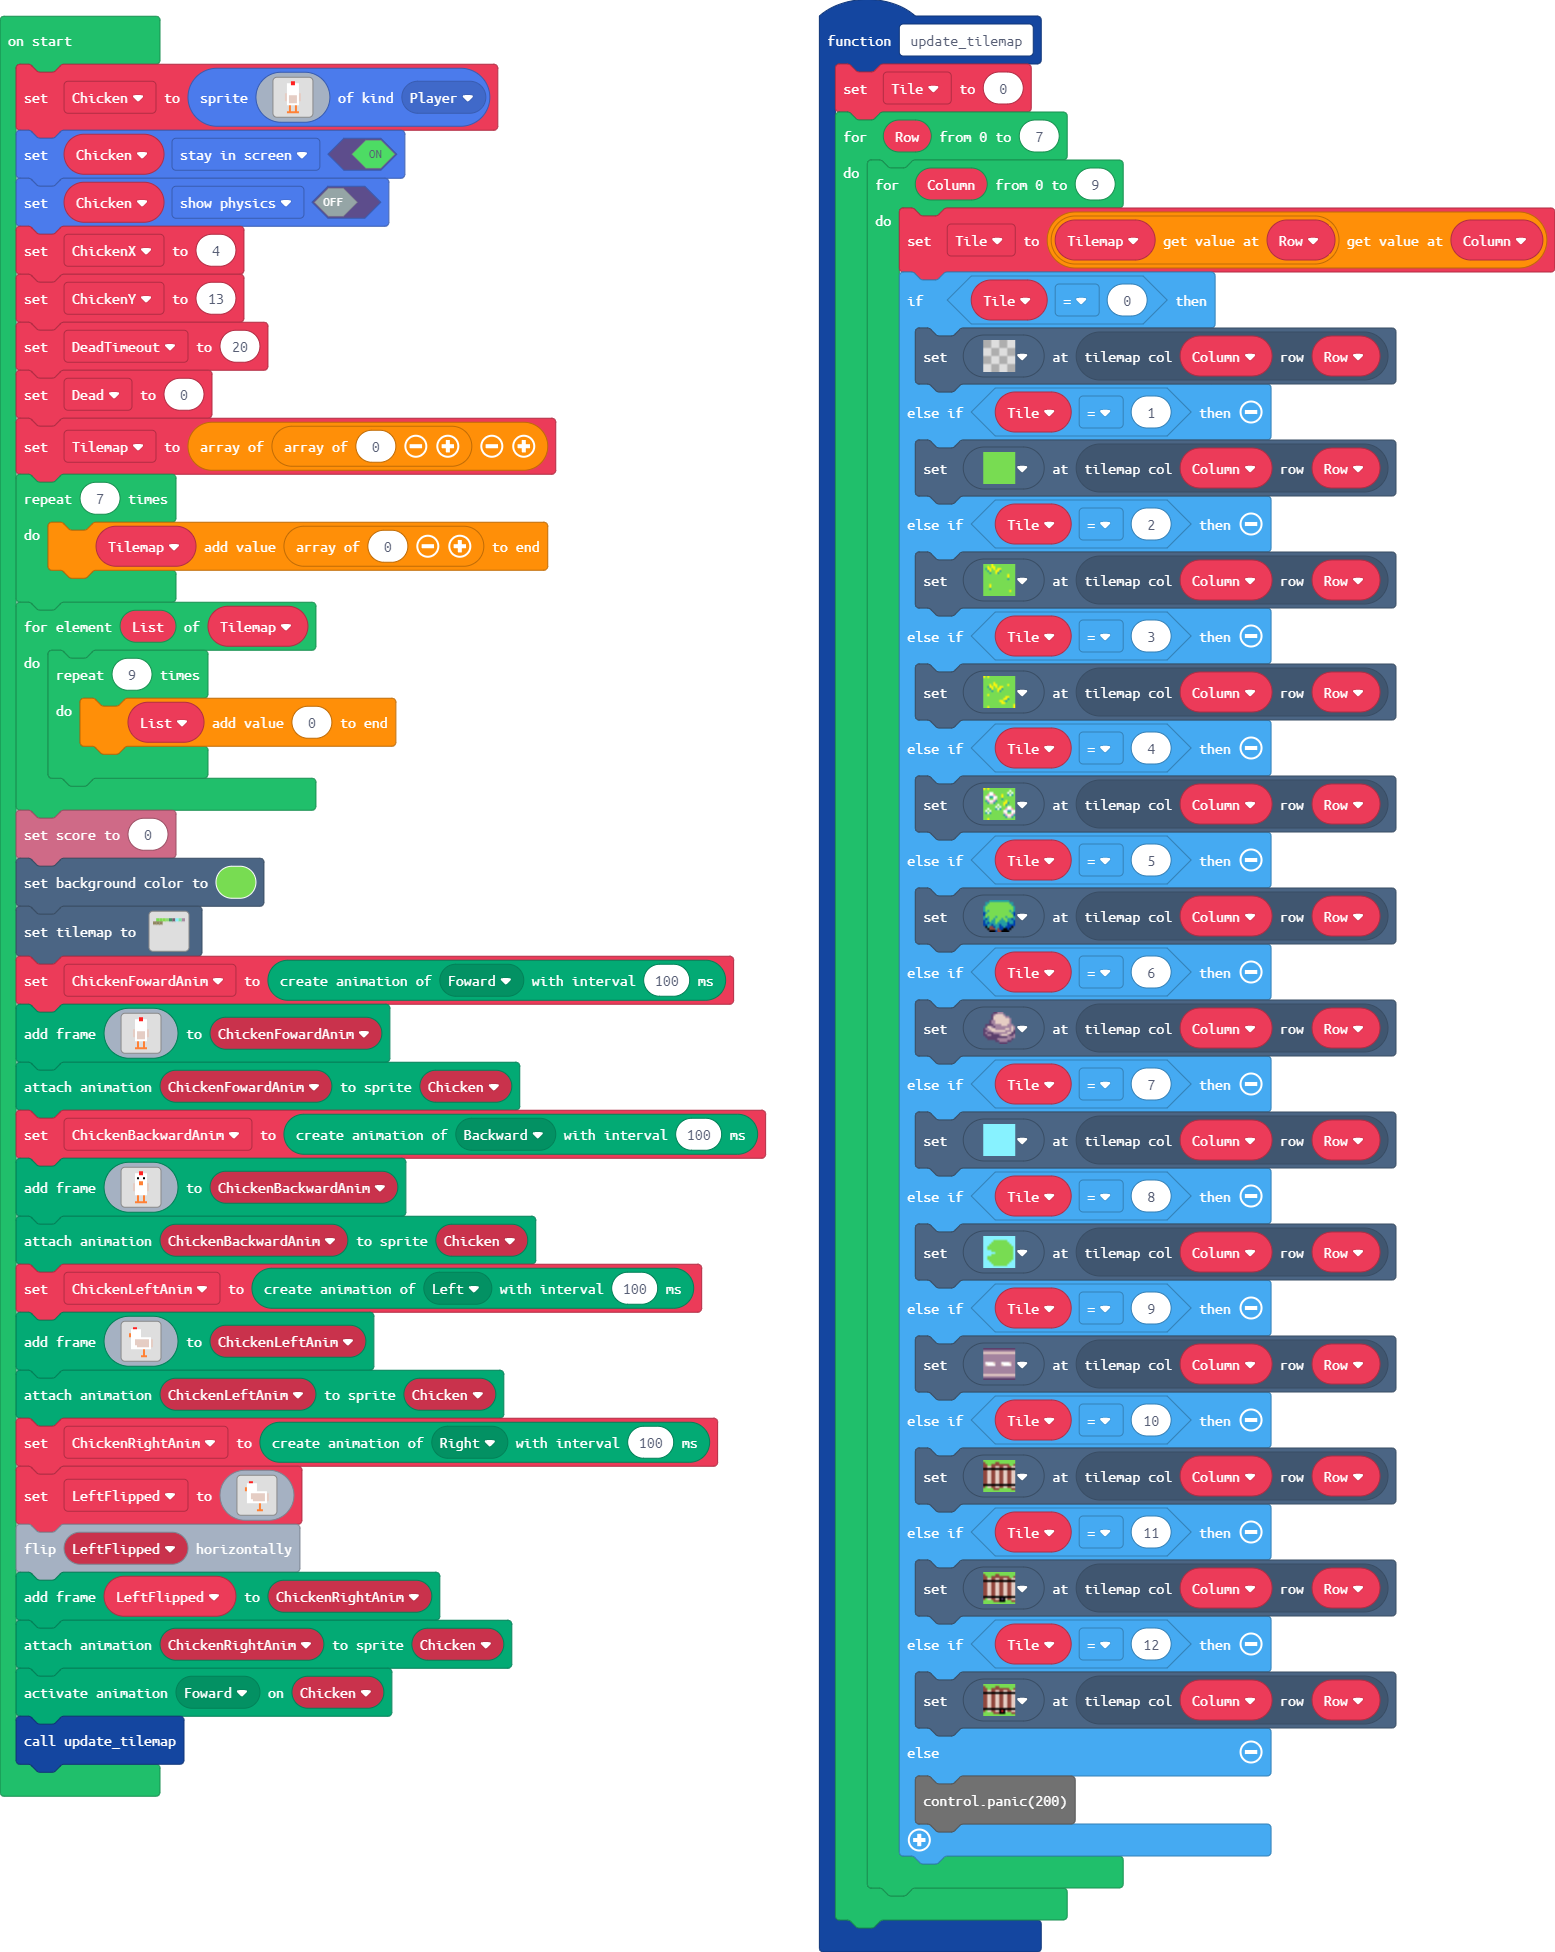
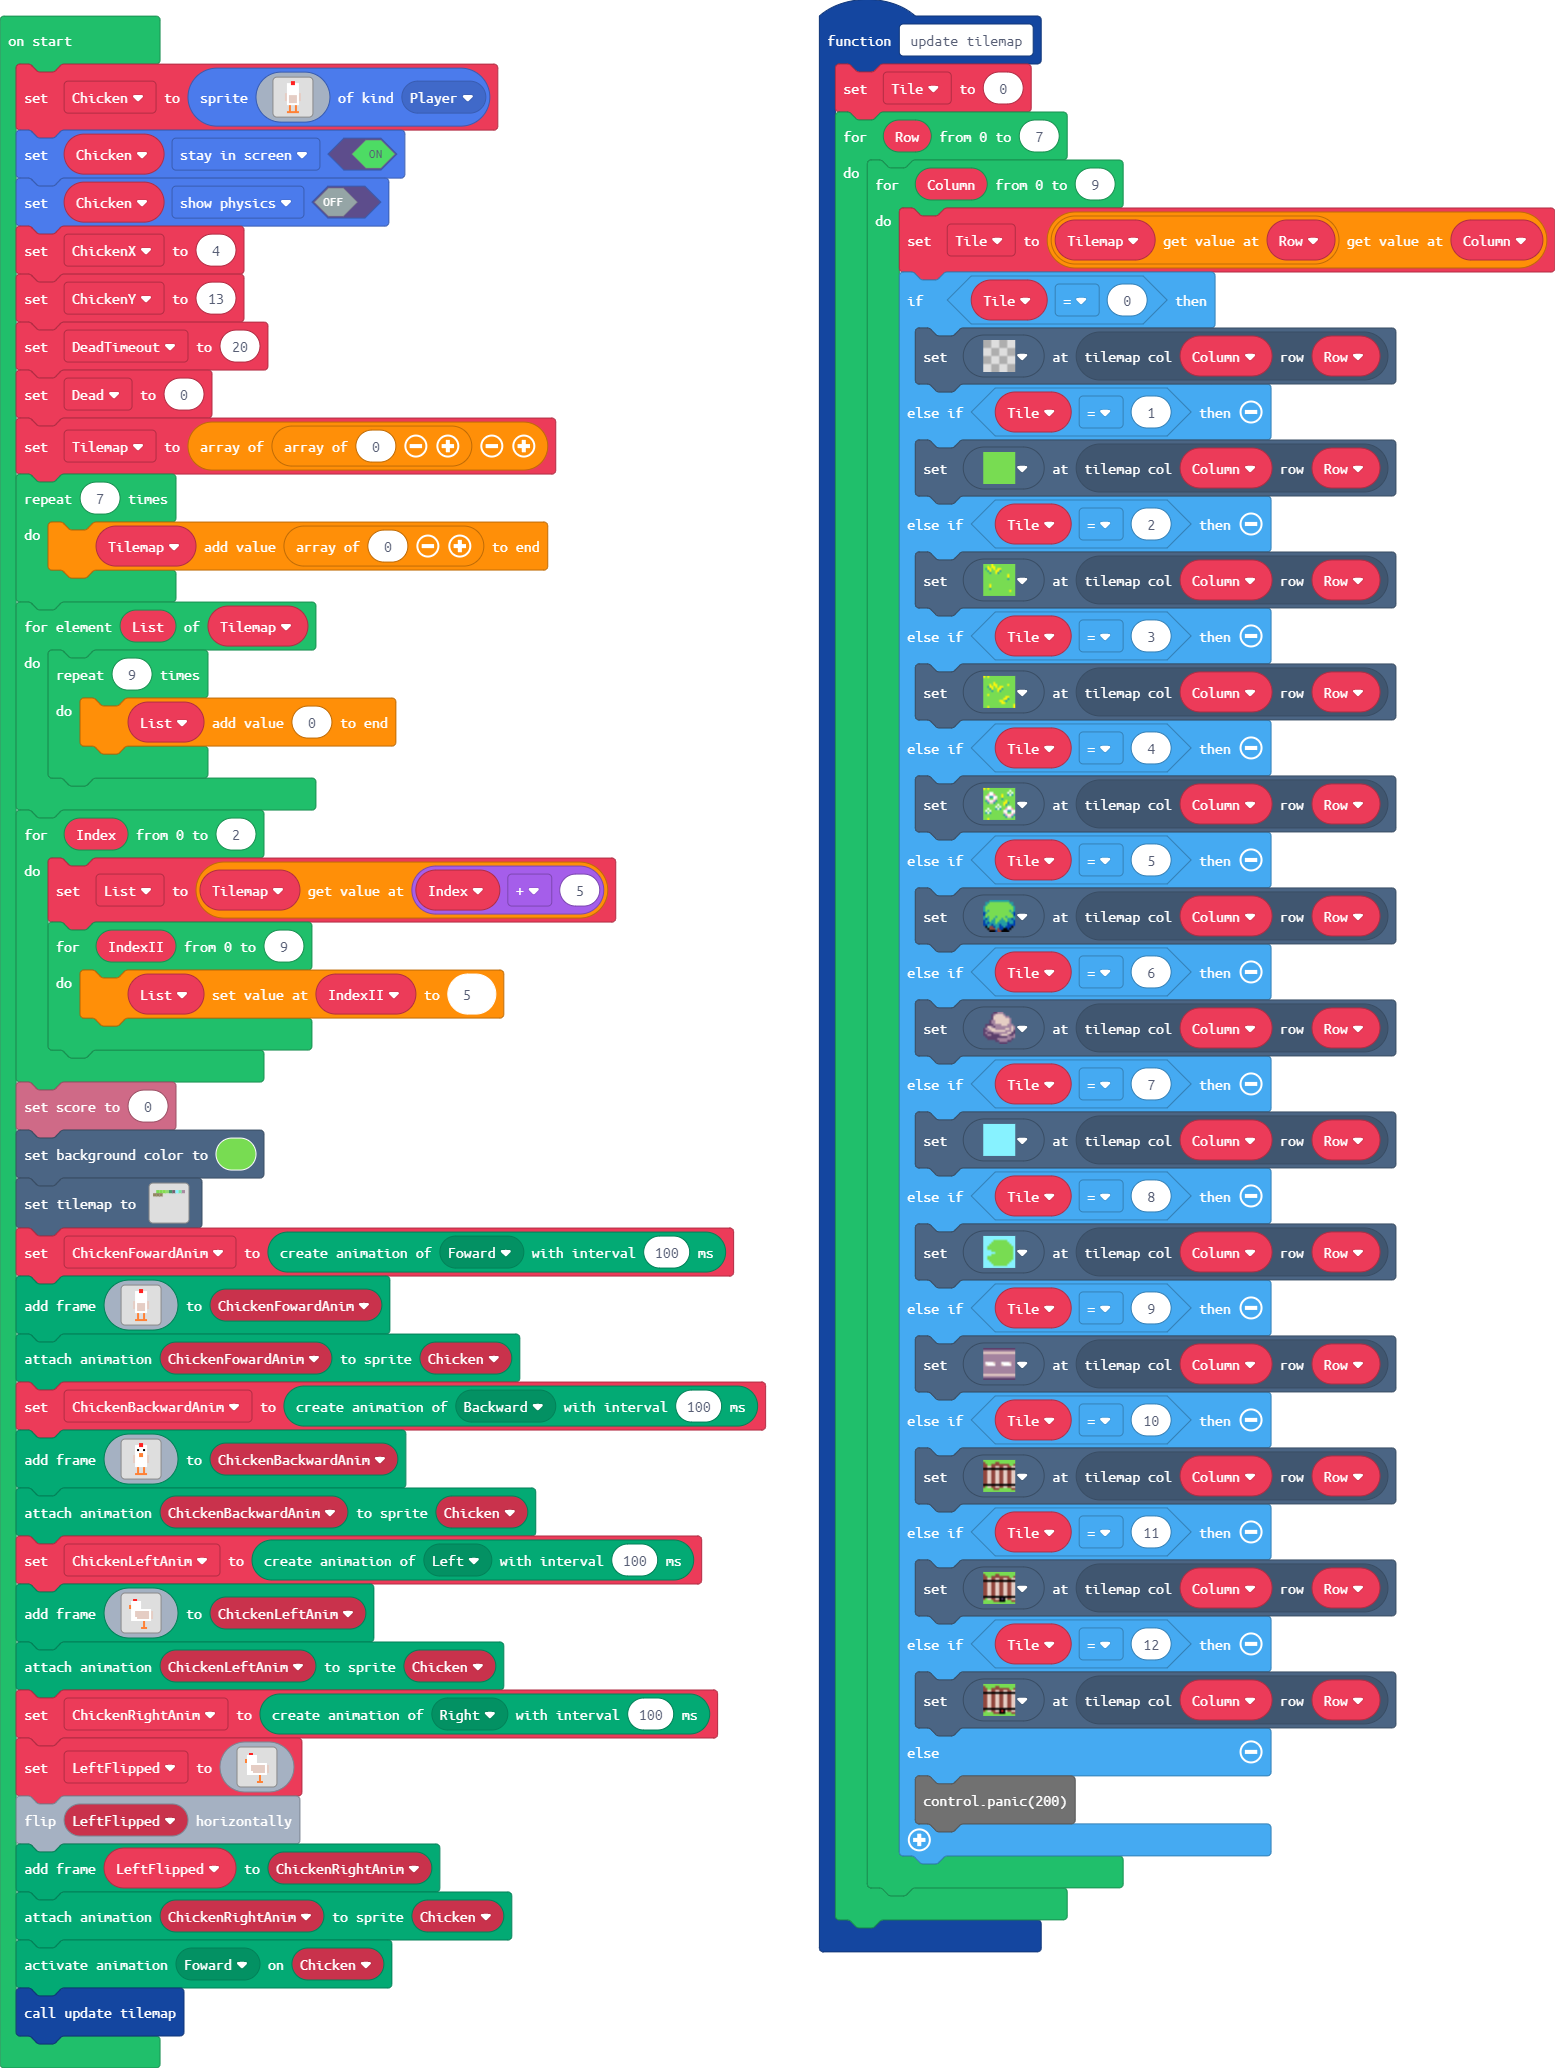
Made trees behind player when starting

diff --git a/main.ts b/main.ts
@@ -180,6 +180,7 @@ function update_tilemap () {
     }
 }
 let Tile = 0
+let List: number[] = []
 let Tilemap: number[][] = []
 let Chicken = sprites.create(img`
 . . . . . . . 2 2 . . . . . . . 
@@ -212,6 +213,12 @@ for (let index = 0; index < 7; index++) {
 for (let List of Tilemap) {
     for (let index = 0; index < 9; index++) {
         List.push(0)
+    }
+}
+for (let Index = 0; Index <= 2; Index++) {
+    List = Tilemap[Index + 5]
+    for (let IndexII = 0; IndexII <= 9; IndexII++) {
+        List[IndexII] = 5
     }
 }
 info.setScore(0)
